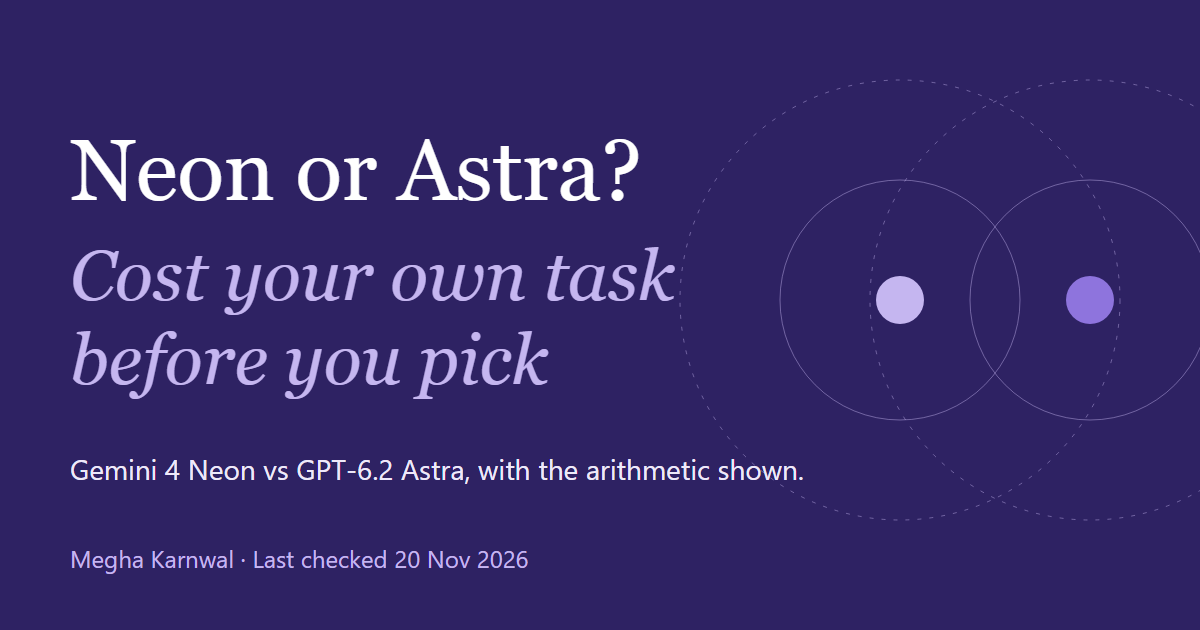
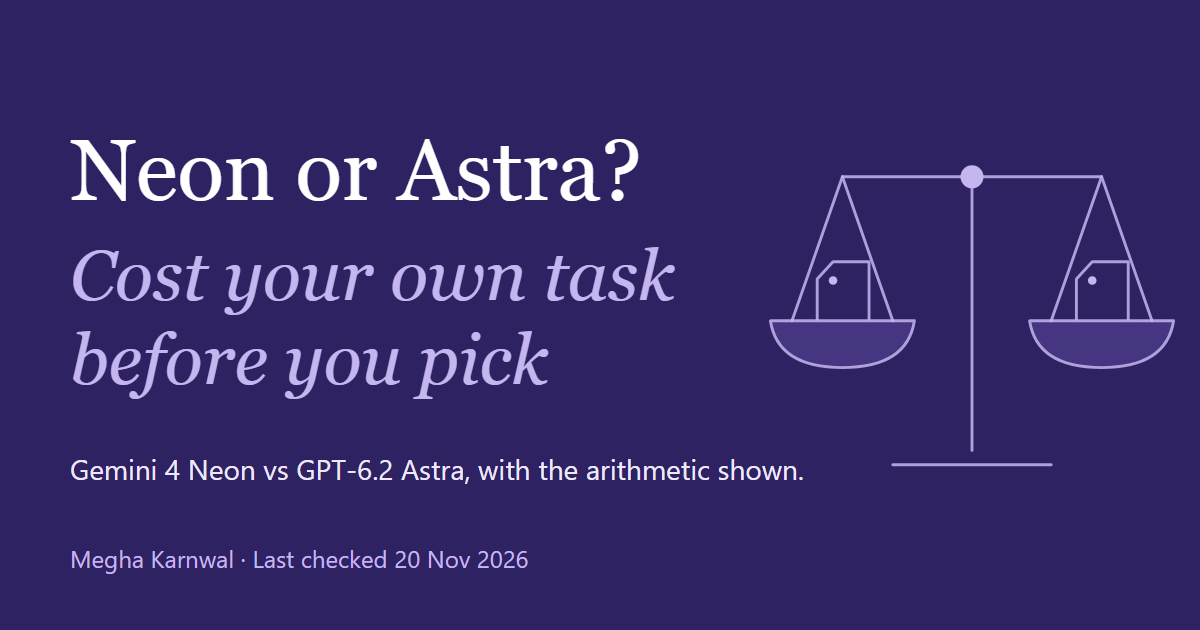
feat(blog): add topic hero, phone hero, share card and break-even diagram to the Neon vs Astra post

Changed region(s): [[0.6167, 0.2413, 0.9867, 0.6937], [0.74, 0.7238, 0.8942, 0.754]]

diff --git a/app/blog/gemini-4-neon-vs-gpt-6-2-astra-cost-per-task/post-data.js b/app/blog/gemini-4-neon-vs-gpt-6-2-astra-cost-per-task/post-data.js
@@ -23,6 +23,7 @@ export const post = {
 };
 
 export const heroImage = `${B}hero-bg.svg`;
+export const heroImagePhone = `${B}hero-bg-phone.svg`;
 
 export const lead =
   "Which model is cheaper for a marketing automation, Gemini 4 Neon or GPT-6.2 Astra? On list prices, Neon is cheaper per token: $3 input and $15 output per million tokens against Astra's $8 and $40. [1][2] But you pay per finished task, not per token, and a third-party index shows Astra cheaper per task at every effort level both models share, from $0.66 against $0.75 at low effort to $2.52 against $6.44 at xhigh. [4] Cost your own job on both models before you commit.";
@@ -132,6 +133,7 @@ export const sections = [
         type: "p",
         text: "Now add success rates. Neon costs the same per finished task as Astra when its cost per attempt divided by its success rate equals Astra's. At the figures above, if Astra succeeds 100% of the time, Neon must succeed at least 37.5% of the time to break even ($0.09 / 0.375 = $0.24). At list prices with equal token counts, that lets Neon fail more than six times in ten and still match Astra. That is a wide margin, which is the reason to measure the other thing, token counts, on each model. If Astra writes half the output tokens on your task, the gap narrows. This method also ignores batch, flex and priority tiers and any discounts; it uses standard list prices only.",
       },
+      { type: "diagram" },
     ],
   },
   {
@@ -264,3 +266,20 @@ export const related = [
   { href: "/blog/track-ai-mode-traffic-ga4", title: "Google says AI Mode earns less. What can you measure?", note: "A test you can run on your own GA4 property." },
   { href: "/blog/ai-agent-traffic-how-much-to-plan-for", title: "4 Uber rides from AI agents in Halloween week: what to plan for", note: "Sizing an AI change before you spend on it." },
 ];
+
+// Figure for the method section. Every number is from the article text: the worked example
+// (20,000 input and 2,000 output tokens, Neon $0.09 and Astra $0.24 per attempt) and the break-even
+// arithmetic ($0.09 / 0.375 = $0.24). The bar widths are cost divided by 0.24, so they start at zero.
+export const diagram = {
+  label: "Cost per successful task, worked example: Neon at 100% success costs $0.09. Neon at 37.5% success costs $0.24. Astra at 100% success costs $0.24. Neon breaks even with Astra at 37.5% if Astra always succeeds.",
+  equation: ["Cost per attempt", "/", "Success rate", "=", "Cost per successful task"],
+  setup: "Each attempt: 20,000 input tokens and 2,000 output tokens, nothing cached. Cost per attempt is $0.09 on Neon and $0.24 on Astra, so Astra costs 2.67 times as much per attempt.",
+  max: 0.24,
+  bars: [
+    { name: "Neon at 100% success", sum: "$0.09 / 1", cost: 0.09 },
+    { name: "Neon at 37.5% success", sum: "$0.09 / 0.375", cost: 0.24, tone: "match" },
+    { name: "Astra at 100% success", sum: "$0.24 / 1", cost: 0.24, tone: "astra" },
+  ],
+  result: "The second and third bars are equal: that is the break-even.",
+  caption: "Example with placeholder token counts, not measurements. All bars share one scale that starts at $0.",
+};

diff --git a/app/blog/gemini-4-neon-vs-gpt-6-2-astra-cost-per-task/blog.css b/app/blog/gemini-4-neon-vs-gpt-6-2-astra-cost-per-task/blog.css
@@ -81,6 +81,25 @@
 .bp-table tbody tr:last-child th, .bp-table tbody tr:last-child td { border-bottom: 0 }
 .bp-table figcaption { padding: 10px 4px 0; font-size: 14px; line-height: 1.5; color: var(--muted); max-width: 720px }
 
+/* ---------- method figure (HTML and CSS) ---------- */
+.bp-diagram { margin: 32px 0 0; padding: clamp(16px, 3vw, 28px); border-radius: 20px; background: #fff; border: 1px solid var(--line) }
+.bp-dg-eq { display: flex; flex-wrap: wrap; align-items: center; gap: 8px 10px; margin: 0; font-size: 16px; line-height: 1.3 }
+.bp-dg-term { padding: 8px 14px; border-radius: 12px; background: var(--tint); border: 1px solid var(--line); color: var(--ink) }
+.bp-dg-op { font-family: var(--mono); font-size: 18px; color: var(--brand) }
+.bp-diagram .bp-dg-setup { margin: 18px 0 0; max-width: 640px; font-size: 16px; line-height: 1.55; color: var(--ink-2) }
+.bp-bars { list-style: none; margin: 18px 0 0; padding: 0; display: grid; gap: 16px }
+.bp-bars li { display: grid; gap: 6px }
+.bp-bar-name { font-size: 16px; line-height: 1.35; color: var(--ink) }
+.bp-bar-row { display: flex; align-items: center; gap: 12px }
+.bp-bar-track { flex: 1 1 auto; height: 22px; border-radius: 6px; background: var(--tint) }
+.bp-bar-fill { display: block; height: 100%; border-radius: 6px; background: var(--brand-mid) }
+.bp-bar-astra .bp-bar-fill { background: var(--brand-dark) }
+.bp-bar-match .bp-bar-fill { outline: 2px dashed var(--brand-dark); outline-offset: 2px }
+.bp-bar-val { flex: none; min-width: 3.6em; text-align: right; font-size: 18px; font-variant-numeric: tabular-nums; color: var(--ink) }
+.bp-bar-sum { font-family: var(--mono); font-size: 14px; color: var(--muted) }
+.bp-diagram .bp-dg-result { margin: 16px 0 0; font-size: 16px; line-height: 1.5; color: var(--ink) }
+.bp-diagram figcaption { margin-top: 12px; padding-top: 12px; border-top: 1px solid var(--line); font-size: 14px; line-height: 1.5; color: var(--muted) }
+
 /* ---------- opinion note: a full tinted box with its own heading, no side stripe ---------- */
 .bp-note { display: block; margin: 32px 0 0; padding: clamp(20px, 3vw, 28px); border-radius: 20px; border: 1px solid var(--lilac); background: var(--tint-3); max-width: 720px }
 .bp-note h3 { font-family: var(--serif); font-weight: 500; font-size: 22px; line-height: 1.2; margin: 0; color: var(--brand-dark) }
@@ -126,7 +145,8 @@
 
 @media (max-width: 699px) {
   .bp-intro p, .bp-sec > p, .bp-sec > ul > li, .bp-sec > ol > li, .bp-note p { font-size: 17px }
-  .bp-hero { background: linear-gradient(180deg, rgba(30,22,64,.9) 0%, rgba(30,22,64,.84) 100%), var(--hero) 70% center / cover no-repeat, var(--brand-dark) }
+  /* Phone: a separate, narrower balance drawing so the pans and tags sit behind the title and standfirst, above the trust card. */
+  .bp-hero { background: linear-gradient(180deg, rgba(30,22,64,.8) 0%, rgba(30,22,64,.66) 100%), var(--hero-phone) center top / cover no-repeat, var(--brand-dark) }
   .bp-stat { width: 100%; border-right: 0; border-bottom: 1px solid rgba(197,182,240,.4) }
   .bp-facts { gap: 12px 24px }
   .bp-sources li { padding-left: 40px }

diff --git a/app/blog/gemini-4-neon-vs-gpt-6-2-astra-cost-per-task/page.js b/app/blog/gemini-4-neon-vs-gpt-6-2-astra-cost-per-task/page.js
@@ -3,7 +3,7 @@
 import SiteChrome from "../../SiteChrome";
 import { EMAIL, LINKEDIN, CTA, bookHref, bookTarget } from "../../lib/site";
 import Helper from "./Helper";
-import { SITE_URL, post, heroImage, lead, intro, sections, sources, disclosure, related } from "./post-data";
+import { SITE_URL, post, heroImage, heroImagePhone, diagram, lead, intro, sections, sources, disclosure, related } from "./post-data";
 import "./blog.css";
 
 const url = `${SITE_URL}/blog/${post.slug}`;
@@ -67,12 +67,41 @@ function Table({ b }) {
   );
 }
 
+// Method figure in plain HTML and CSS: real text at 14px or more, so it reads on a phone and
+// to a screen reader. The bars are decorative; the text beside each one carries the number.
+function Diagram() {
+  const d = diagram;
+  return (
+    <figure className="bp-diagram" role="group" aria-label={d.label}>
+      <p className="bp-dg-eq">
+        {d.equation.map((t, i) => (i % 2 ? <span key={i} className="bp-dg-op" aria-hidden="true">{t}</span> : <span key={i} className="bp-dg-term">{t}</span>))}
+      </p>
+      <p className="bp-dg-setup">{d.setup}</p>
+      <ul className="bp-bars">
+        {d.bars.map((b) => (
+          <li key={b.name} className={b.tone ? "bp-bar-" + b.tone : undefined}>
+            <span className="bp-bar-name">{b.name}</span>
+            <span className="bp-bar-row">
+              <span className="bp-bar-track" aria-hidden="true"><span className="bp-bar-fill" style={{ width: (b.cost / d.max) * 100 + "%" }} /></span>
+              <span className="bp-bar-val">{"$" + b.cost.toFixed(2)}</span>
+            </span>
+            <span className="bp-bar-sum">{b.sum}</span>
+          </li>
+        ))}
+      </ul>
+      <p className="bp-dg-result">{d.result}</p>
+      <figcaption>{d.caption}</figcaption>
+    </figure>
+  );
+}
+
 function Block({ b }) {
   switch (b.type) {
     case "p": return <p><Inline text={b.text} /></p>;
     case "ul": return <List as="ul" items={b.items} />;
     case "ol": return <List as="ol" items={b.items} />;
     case "table": return <Table b={b} />;
+    case "diagram": return <Diagram />;
     case "helper": return <Helper />; // replaces the hidden CALCULATOR INSERTION POINT comment
     case "callout":
       return (
@@ -109,7 +138,7 @@ export default function PostPage() {
       <script type="application/ld+json" dangerouslySetInnerHTML={{ __html: JSON.stringify(jsonLd).replace(/</g, "\\u003c") }} />
       <main className="bp">
         <article>
-          <header className="bp-hero" style={{ "--hero": `url(${heroImage})` }}>
+          <header className="bp-hero" style={{ "--hero": `url(${heroImage})`, "--hero-phone": `url(${heroImagePhone})` }}>
             <div className="bp-wrap bp-hero-in">
               <h1>{titleA}{titleB && <> <em>{titleB}</em></>}</h1>
               <p className="bp-stand">{post.description}</p>
